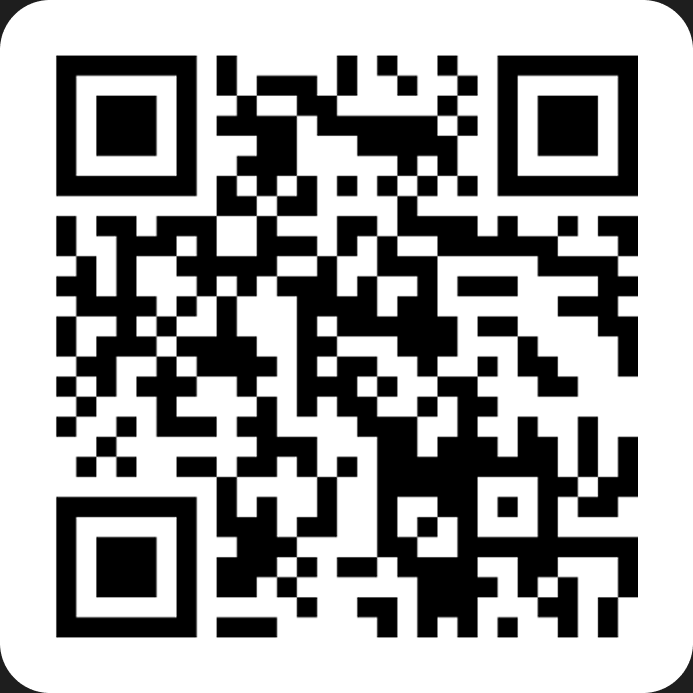
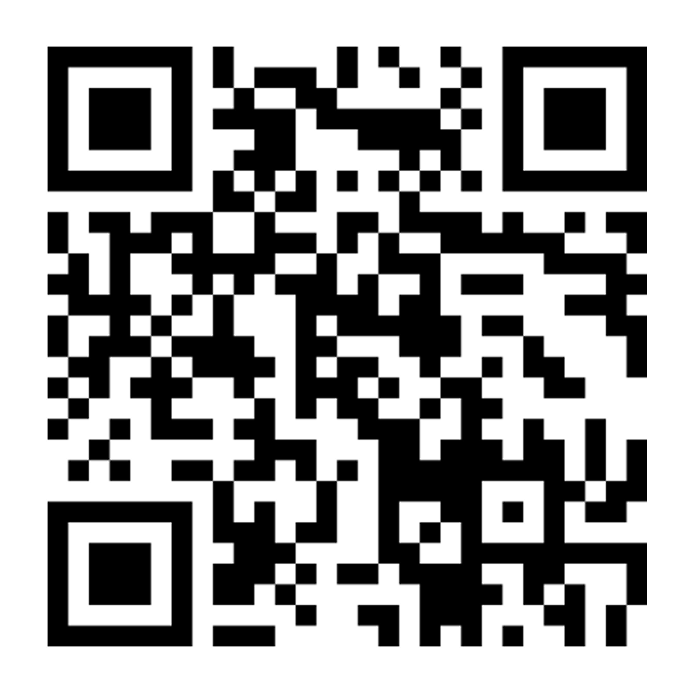
update: minor design updates

diff --git a/frontend/html/donate.html b/frontend/html/donate.html
@@ -35,16 +35,18 @@
     {% if request.LANGUAGE_CODE == "ru" %}
         <div class="block donate-service" id="sbp">
             <div class="donate-service-image">
-                <img src="{% static "images/donate/sbp.png" %}">
+                <img src="{% static "images/donate/sber.png" %}">
             </div>
             <div class="donate-service-description">
-                <strong>{% trans "СБП / Сбер (карты РФ)" %}</strong><br>
-                {% trans "Если вы из России, перевод на карту будет проще всего. По клику откроется удобное окошко." %}
+                <strong>{% trans "СБП на Сбер" %}</strong><br>
+                {% blocktrans with sber='<a href="https://www.sberbank.com/sms/pbpn?requisiteNumber=79859585501" target="_blank" rel="noopener">по ссылке</a>'|safe %}
+                    Можете просто кликнуть {{ sber }}. Но еще есть QR-код и номер телефона, они тоже привязаны к Сберу.
+                {% endblocktrans %}
 
                 <br><br>
 
                 <span class="donate-service-footer">
-                    <span>{% trans "Номер телефона:" %}</span>
+                    <span>{% trans "Номер телефона, Сбер:" %}</span>
                     <span class="copy-phone" data-num="+79859585501"
                          onclick="
                            navigator.clipboard.writeText(this.dataset.num).then(() => {
@@ -65,11 +67,13 @@
                     </span>
                 </span>
             </div>
+            <!--
             <div class="donate-service-button">
                 <a href="https://www.tbank.ru/cf/7UBE2Mapqik" class="button" target="_blank">
                     💳 {% trans "Донатить" %}
                 </a>
             </div>
+            -->
         </div>
     {% endif %}
 

diff --git a/frontend/html/subscribe.html b/frontend/html/subscribe.html
@@ -21,7 +21,21 @@
 {% endblock %}
 
 {% block body %}
-    <div class="container">
-        {% include "common/post_subscribe.html" %}
+
+<div class="container">
+    <div class="block donate">
+        <div class="block-title">
+            ✅ {% trans "Подписка на новые посты" %}
+        </div>
+
+        <div class="block-description">
+            {{ strings.SUBSCRIBE }}
+        </div>
+
+        <div class="post-subscribe-items">
+            <a href="https://t.me/subpolare_blog" class="button button-blue">{% trans "Мой телеграм-канал с уведомлениями о постах" %}</a>
+        </div><br><br><br><br>
     </div>
+</div>
 {% endblock %}
+

diff --git a/frontend/static/css/theme.css b/frontend/static/css/theme.css
@@ -63,7 +63,11 @@ html[theme="dark"] {
 
     --block-bg-color: #1B1B1C;
     --opposite-block-bg-color: #FFF;
-    --block-shadow: 0px 0px 0px #000;
+    --block-shadow:
+        0 0 0 1px rgba(255,255,255,0.04),
+        0 1px 2px rgba(0,0,0,0.35),
+        0 10px 30px rgba(0,0,0,0.55),
+        0 0 24px rgba(255,255,255,0.03);
     --block-border: solid 1px #FCFDFF;
 
     --card-title-color: #FFF;

diff --git a/frontend/static/css/donates.css b/frontend/static/css/donates.css
@@ -79,7 +79,7 @@
     }
 
     .donate-service-image {
-        max-width: 150px;
+        max-width: 500px;
         align-items: center;
         display: flex;
     }
